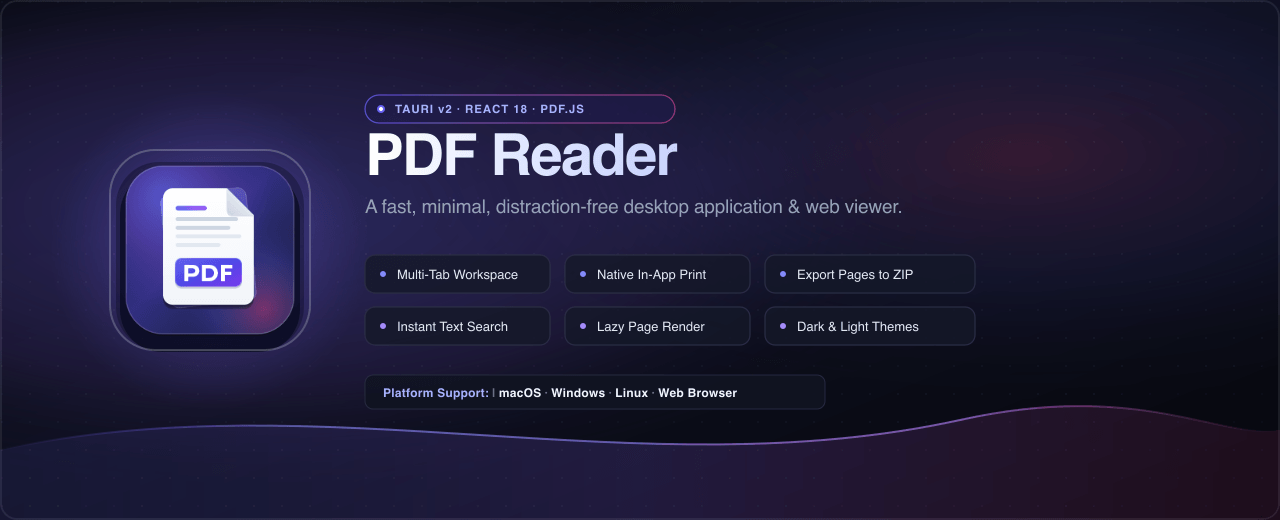
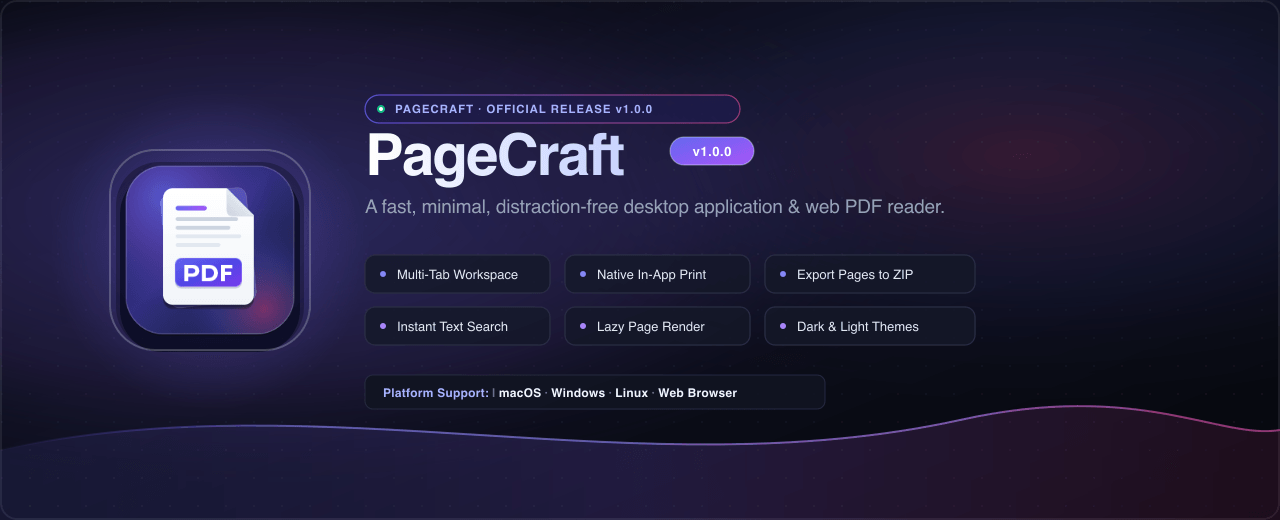
chore(branding): rebrand application to PageCraft v1.0.0
- Update product name, window title, version (1.0.0), and bundle identifier (com.pagecraft.app) in src-tauri/tauri.conf.json, src-tauri/Cargo.toml, and src-tauri/capabilities/default.json
- Update package name (pagecraft) and version (1.0.0) in package.json, page title in index.html, and app metadata in public/site.webmanifest
- Update EmptyState hero title and icon alt text to PageCraft in src/components/PDFViewer.tsx
- Update release workflow name/titles (.github/workflows/build-all.yml) and local build script output paths (scripts/build.js)
- Update README.md and regenerate assets/banner.png for PageCraft v1.0.0

diff --git a/scripts/build.js b/scripts/build.js
@@ -2,7 +2,7 @@ import { execSync } from "child_process";
 import os from "os";
 
 console.log("\n==========================================");
-console.log("   PDF Reader - Desktop App Builder");
+console.log("   PageCraft - Desktop App Builder");
 console.log("==========================================\n");
 
 const platform = os.platform();
@@ -13,8 +13,8 @@ if (platform === "darwin") {
     execSync("npx tauri build", { stdio: "inherit" });
     console.log("\n✅ macOS build completed successfully!");
     console.log("📂 Output location:");
-    console.log("   • .app: src-tauri/target/release/bundle/macos/PDF Reader.app");
-    console.log("   • .dmg: src-tauri/target/release/bundle/dmg/PDF Reader_1.2.2_aarch64.dmg\n");
+    console.log("   • .app: src-tauri/target/release/bundle/macos/PageCraft.app");
+    console.log("   • .dmg: src-tauri/target/release/bundle/dmg/PageCraft_1.0.0_aarch64.dmg\n");
   } catch (err) {
     console.error("\n❌ macOS build failed:", err.message);
     process.exit(1);

diff --git a/index.html b/index.html
@@ -4,13 +4,13 @@
     <meta charset="UTF-8" />
     <meta name="viewport" content="width=device-width, initial-scale=1.0" />
     <meta name="theme-color" content="#6366f1" />
-    <meta name="description" content="Fast, minimal, distraction-free PDF reader" />
+    <meta name="description" content="PageCraft - Fast, minimal, distraction-free PDF reader" />
     <link rel="icon" type="image/svg+xml" href="/favicon.svg" />
     <link rel="icon" type="image/png" sizes="32x32" href="/favicon-32x32.png" />
     <link rel="shortcut icon" href="/favicon.ico" />
     <link rel="apple-touch-icon" href="/apple-touch-icon.png" />
     <link rel="manifest" href="/site.webmanifest" />
-    <title>PDF Reader</title>
+    <title>PageCraft</title>
   </head>
   <body>
     <div id="root"></div>

diff --git a/src/components/PDFViewer.tsx b/src/components/PDFViewer.tsx
@@ -697,12 +697,12 @@ function EmptyState({
         <div className={styles.emptyIcon}>
           <img
             src="/favicon.svg"
-            alt="PDF Reader"
+            alt="PageCraft"
             className={styles.emptyIconImg}
             draggable={false}
           />
         </div>
-        <h2 className={styles.emptyTitle}>PDF Reader</h2>
+        <h2 className={styles.emptyTitle}>PageCraft</h2>
         <p className={styles.emptySubtitle}>Fast, minimal, distraction-free</p>
         <button className={styles.emptyBtn} onClick={onOpenFile}>
           <FolderOpen size={15} strokeWidth={2.2} />

diff --git a/README.md b/README.md
@@ -1,8 +1,9 @@
 <p align="center">
-  <img src="assets/banner.png" alt="PDF Reader - Modern Desktop & Web PDF Reader" width="100%" />
+  <img src="assets/banner.png" alt="PageCraft - Modern Desktop & Web PDF Reader" width="100%" />
 </p>
 
 <p align="center">
+  <a href="#-building-for-distribution"><img src="https://img.shields.io/badge/Release-v1.0.0-blueviolet?style=flat-square" alt="Version 1.0.0" /></a>
   <a href="https://tauri.app"><img src="https://img.shields.io/badge/Tauri-v2.0-24C8D8?style=flat-square&logo=tauri&logoColor=white" alt="Tauri v2" /></a>
   <a href="https://react.dev"><img src="https://img.shields.io/badge/React-18.3-61DAFB?style=flat-square&logo=react&logoColor=black" alt="React 18" /></a>
   <a href="https://www.typescriptlang.org"><img src="https://img.shields.io/badge/TypeScript-5.5-3178C6?style=flat-square&logo=typescript&logoColor=white" alt="TypeScript" /></a>
@@ -12,7 +13,7 @@
 </p>
 
 <p align="center">
-  <strong>PDF Reader</strong> is an ultra-fast, minimal, and beautiful document reader built with <strong>Tauri v2</strong>, <strong>React 18</strong>, and <strong>PDF.js</strong>.<br />
+  <strong>PageCraft</strong> is an ultra-fast, minimal, and beautiful document reader built with <strong>Tauri v2</strong>, <strong>React 18</strong>, and <strong>PDF.js</strong>.<br />
   Engineered for distraction-free reading with smooth continuous scrolling, multi-tab workflows, in-app vector printing, and page-to-image extraction.
 </p>
 
@@ -106,8 +107,8 @@
 
 ```bash
 # 1. Clone the repository
-git clone https://github.com/your-username/pdf-reader.git
-cd pdf-reader
+git clone https://github.com/your-username/pagecraft.git
+cd pagecraft
 
 # 2. Install dependencies
 npm install
@@ -166,12 +167,12 @@ npm run build:linux
 
 | Platform | Package Format | Output Path |
 | :--- | :--- | :--- |
-| **macOS** | `.app` Bundle | `src-tauri/target/release/bundle/macos/PDF Reader.app` |
-| **macOS** | `.dmg` Installer | `src-tauri/target/release/bundle/dmg/PDF Reader_1.2.2_aarch64.dmg` |
-| **Windows** | `.exe` Setup | `src-tauri/target/release/bundle/nsis/PDF Reader_1.2.2_x64-setup.exe` |
-| **Windows** | `.msi` Package | `src-tauri/target/release/bundle/msi/PDF Reader_1.2.2_x64_en-US.msi` |
-| **Linux** | `.AppImage` | `src-tauri/target/release/bundle/appimage/pdf-reader_1.2.2_amd64.AppImage` |
-| **Linux** | `.deb` Package | `src-tauri/target/release/bundle/deb/pdf-reader_1.2.2_amd64.deb` |
+| **macOS** | `.app` Bundle | `src-tauri/target/release/bundle/macos/PageCraft.app` |
+| **macOS** | `.dmg` Installer | `src-tauri/target/release/bundle/dmg/PageCraft_1.0.0_aarch64.dmg` |
+| **Windows** | `.exe` Setup | `src-tauri/target/release/bundle/nsis/PageCraft_1.0.0_x64-setup.exe` |
+| **Windows** | `.msi` Package | `src-tauri/target/release/bundle/msi/PageCraft_1.0.0_x64_en-US.msi` |
+| **Linux** | `.AppImage` | `src-tauri/target/release/bundle/appimage/pagecraft_1.0.0_amd64.AppImage` |
+| **Linux** | `.deb` Package | `src-tauri/target/release/bundle/deb/pagecraft_1.0.0_amd64.deb` |
 
 ---
 
@@ -179,7 +180,7 @@ npm run build:linux
 
 A pre-configured GitHub Actions workflow is included at [`.github/workflows/build-all.yml`](.github/workflows/build-all.yml). 
 
-Whenever you push a git tag (e.g., `v1.2.2`) or manually trigger the workflow from the **Actions** tab on GitHub:
+Whenever you push a git tag (e.g., `v1.0.0`) or manually trigger the workflow from the **Actions** tab on GitHub:
 1. Matrix runners spin up on **macOS**, **Windows**, and **Ubuntu**.
 2. Each platform compiles native GUI toolkits and packages installers simultaneously.
 3. Automatically drafts a GitHub Release containing all `.dmg`, `.exe`, `.msi`, `.AppImage`, and `.deb` binaries ready for download.
@@ -189,7 +190,7 @@ Whenever you push a git tag (e.g., `v1.2.2`) or manually trigger the workflow fr
 ## 🏛 Architecture & Project Structure
 
 ```
-pdf-reader/
+pagecraft/
 ├── .github/
 │   └── workflows/
 │       └── build-all.yml           # Multi-platform CI/CD release workflow
